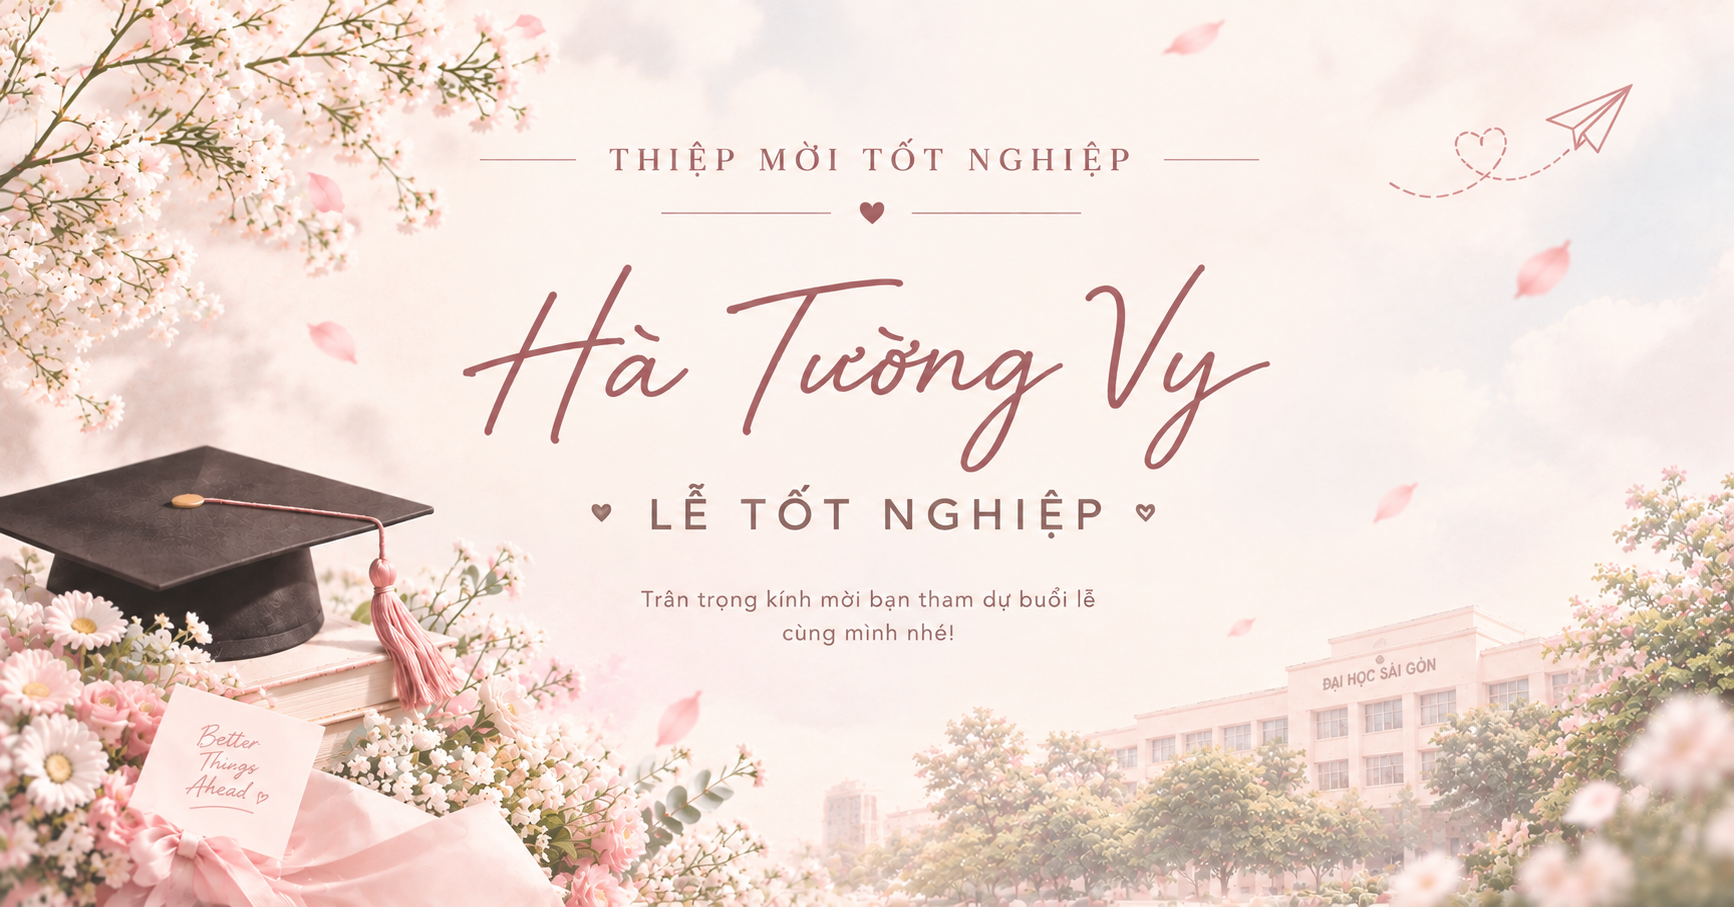
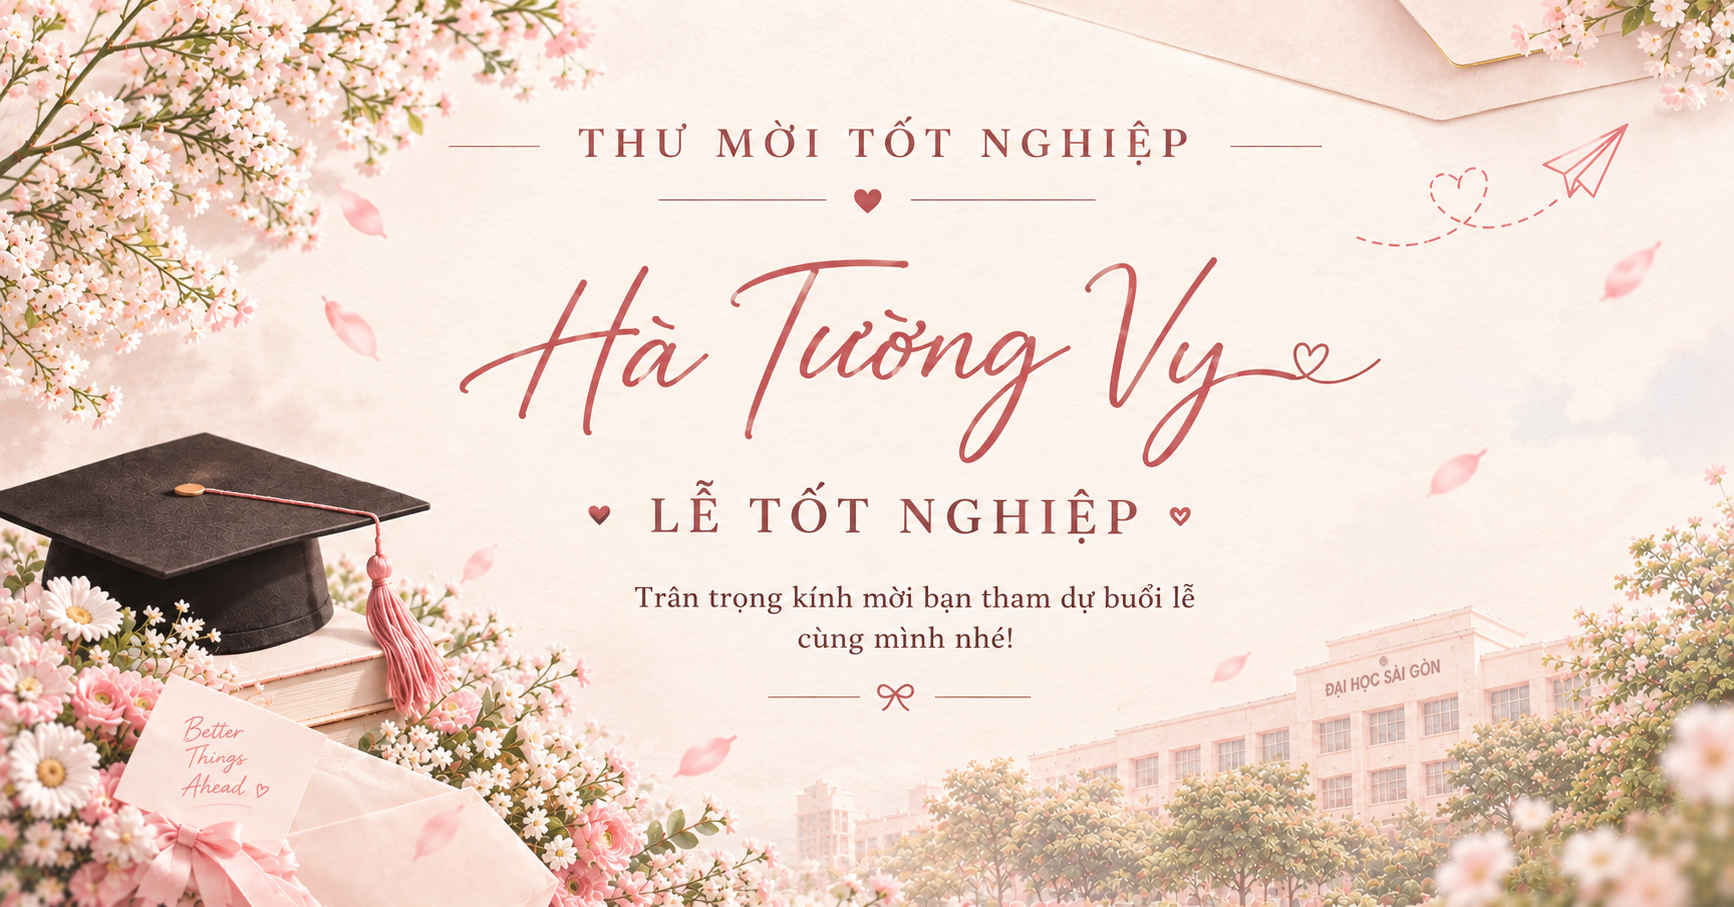
fix: change some words

diff --git a/script.js b/script.js
@@ -946,9 +946,9 @@ const guestTypes = {
       "Cảm ơn gia đình chú và dì đã đến chung vui cùng con ạ.",
 
     message1:
-      "Vậy là 4,5 năm đại học cũng đã tới lúc kết thúc rồi. Con muốn ngày hôm đó có Chú Mến và Dì Trinh ở đó để cùng con ăn mừng, chụp cả ngàn tấm hình và lưu lại thật nhiều kỷ niệm tươi đẹp cùng nhau nha ạ.",
+      "Vậy là 4,5 năm đại học cũng đã tới lúc khép lại rồi. Con mong ngày đặc biệt này có Chú Mến, Dì Trinh cùng bé Na và Bo đến chung vui, cùng con ăn mừng, chụp thật nhiều hình và lưu lại những kỷ niệm thật đẹp bên nhau.",
     message2:
-      "Gia đình chú và dì có thời gian thì đến với con nha. Ngoài gia đình, chú và dì cũng là người đã chứng kiến từng bước con trưởng thành đến bây giờ, bé Na và Bo là 2 đứa em dễ thương). Có mọi người bên cạnh, con rất là vui và hạnh phúc lắm."
+      "Nếu có thời gian, con rất mong gia đình mình sẽ đến dự cùng con. Chú Mến và Dì Trinh cũng là người đã chứng kiến con trưởng thành qua từng chặng đường, nên sự hiện diện của gia đình mình trong ngày này sẽ là niềm vui và hạnh phúc rất lớn đối với con. Con cũng mong được gặp hai đứa em Na và Bo đáng yêu nữa!"
   }
 };
 

diff --git a/index.html b/index.html
@@ -363,9 +363,15 @@
 
                 <small class="location-note">
                     <strong class="location-title">💡 Lưu ý nho nhỏ về chỗ gửi xe</strong>
+
                     <span>
-                        🛵 Đi xe máy → gửi xe tại cổng sau (06 Nguyễn Trãi) <br>
-                        Nếu chưa quen đường, có thể đi theo Google Maps (nhấn nút XEM ĐỊA ĐIỂM ở trên để xem và đi tới cổng chính 273 An Dương Vương), sau đó vòng qua cổng sau Nguyễn Trãi để gửi xe.
+                        🛵 Đi xe máy → gửi xe tại cổng sau (06 Nguyễn Trãi)<br>
+                        Nếu chưa quen đường, có thể đi theo Google Maps
+                        (nhấn nút
+                        <a href="https://www.google.com/maps/search/?api=1&query=Trường+Đại+học+Sài+Gòn+273+An+Dương+Vương"
+                            target="_blank" rel="noopener noreferrer" class="location-link">XEM ĐỊA ĐIỂM</a>
+                        ở trên để xem và đi tới cổng chính 273 An Dương Vương),
+                        sau đó vòng qua cổng sau Nguyễn Trãi để gửi xe.
                     </span>
                 </small>
             </div>

diff --git a/style.css b/style.css
@@ -4272,7 +4272,7 @@ button {
 
 #titleEnvelope {
     font-family: 'Dancing Script', cursive;
-    font-size: 55px;
+    font-size: 50px;
     font-weight: 600;
     color: var(--rose-dark);
     line-height: 1.4;
@@ -4314,4 +4314,16 @@ button {
     font-size: 12px;
     line-height: 1.6;
     color: #8a7b70;
+}
+
+.location-link {
+    color: #a85f63;
+    font-weight: 700;
+    text-decoration: underline;
+    text-underline-offset: 3px;
+    cursor: pointer;
+}
+
+.location-link:hover {
+    color: #85464b;
 }
